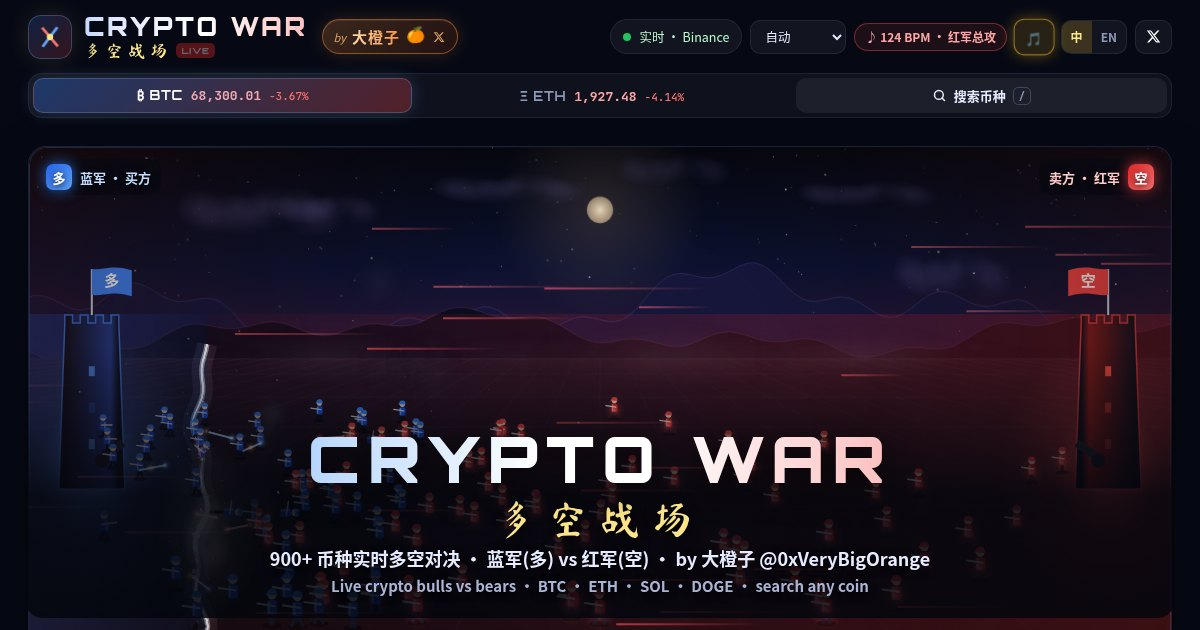
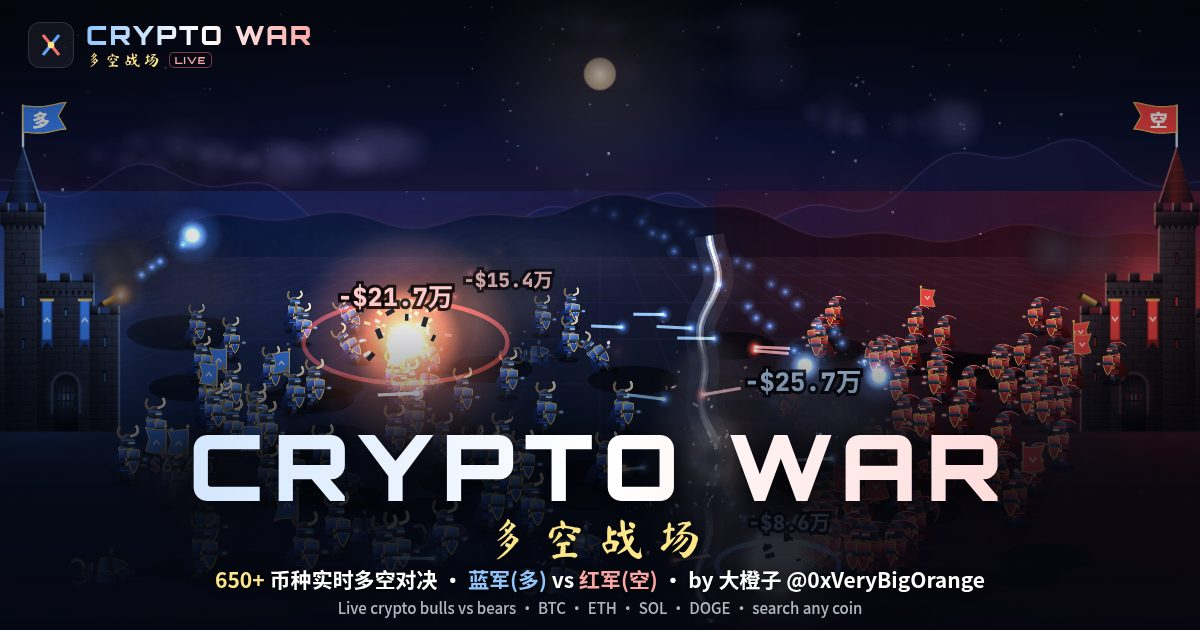
二轮体检：手机端弹幕开关让开红方军旗、横屏矮屏移到右上；窄屏图例不再溢出；平板竖屏城堡外塔不被切边；换币时城堡战损/烟雾/弹坑立即复位；切后台不积压成交（回来不会集中爆发炮弹和巨鲸警报）；尺寸变化合并到一帧重建、尺寸不变不重建、监听像素比变化；前线后撤时落在敌阵的士兵跑步撤回；币种栏改为按钮组（搜索按钮不再被当成标签页），搜索弹窗加 dialog/aria-expanded；分享预览图换成新美术并改为 650+ 币种

diff --git a/js/battle.js b/js/battle.js
@@ -1,6 +1,6 @@
 // 战场动画：Canvas 2D，蓝军（多）在左，红军（空）在右
-import { t as tr, fmtUsd } from './i18n.js?v=932ab4a1';
-import { makeUnitSprites, drawStandard, Fortress, UNIT } from './units.js?v=932ab4a1';
+import { t as tr, fmtUsd } from './i18n.js?v=328eaf15';
+import { makeUnitSprites, drawStandard, Fortress, UNIT } from './units.js?v=328eaf15';
 const TAU = Math.PI * 2;
 const rand = (a, b) => a + Math.random() * (b - a);
 const clamp = (v, a, b) => Math.max(a, Math.min(b, v));
@@ -77,26 +77,37 @@ export class Battle {
     };
     this.units = makeUnitSprites(COL);
     this.forts = { blue: new Fortress('blue', COL.blue), red: new Fortress('red', COL.red) };
-    this.resize = this.resize.bind(this);
-    window.addEventListener('resize', this.resize);
-    if (window.ResizeObserver) new ResizeObserver(this.resize).observe(canvas);
-    this.resize();
+    // 尺寸 / 像素比变化：合并到下一帧只重建一次（ResizeObserver 和 window resize 经常同时触发）
+    this._rzQ = 0; const rz = () => { if (!this._rzQ) this._rzQ = requestAnimationFrame(() => { this._rzQ = 0; this.resize(); }); };
+    window.addEventListener('resize', rz);
+    if (window.ResizeObserver) new ResizeObserver(rz).observe(canvas);
+    this._watchDpr = () => { // 窗口拖到另一块屏幕（像素比变了但不一定触发 resize）
+      if (typeof matchMedia !== 'function') return;
+      const mq = matchMedia(`(resolution: ${window.devicePixelRatio || 1}dppx)`);
+      const on = () => { mq.removeEventListener('change', on); rz(); this._watchDpr(); };
+      mq.addEventListener && mq.addEventListener('change', on);
+    };
+    this._watchDpr();
+    // 切到后台期间不积压成交：回来时不会一口气补放几百发炮弹 / 巨鲸警报
+    document.addEventListener('visibilitychange', () => { if (!document.hidden) { this.queue = []; this.pending = { blue: 0, red: 0 }; } });
+    this.resize(true);
     this._initWeather();
     for (let i = 0; i < 40; i++) this.embers.push(this._ember(true));
   }
 
   // ---------- 布局 ----------
-  resize() {
+  resize(force) {
     const r = this.cv.getBoundingClientRect();
     const dpr = Math.min(window.devicePixelRatio || 1, this.Q.dpr);
     if (!r.width || !r.height) return;
+    if (force !== true && r.width === this.W && r.height === this.H && dpr === this.dpr) return; // 尺寸没变不重建缓存
     this.W = r.width; this.H = r.height; this.dpr = dpr;
     this.cv.width = Math.round(r.width * dpr); this.cv.height = Math.round(r.height * dpr);
     const oT = this.laneTop, oB = this.laneBot, oW = this.W0;
     this.horizon = this.H * 0.4; this.laneTop = this.H * 0.52; this.laneBot = this.H * 0.93;
     if (oT != null && oB > oT) for (const s of this.soldiers) { s.y = this.laneTop + (s.y - oT) / (oB - oT) * (this.laneBot - this.laneTop); if (oW) s.x *= this.W / oW; }
     this.W0 = this.W;
-    this.baseL = Math.max(34, this.W * 0.055); this.baseR = this.W - this.baseL;
+    this.baseL = Math.max(34, this.W * 0.055, 50 * clamp(this.H / 500, 0.5, 1.15)); this.baseR = this.W - this.baseL; // 画布偏高（平板竖屏）时城堡外塔不被画布边缘切掉
     this.N = Math.round(clamp(this.W / 16, 22, 70));
     this.forts.blue.build(this.W, this.H, dpr, this.baseL, this.H * 0.66, this.baseL);
     this.forts.red.build(this.W, this.H, dpr, this.baseR, this.H * 0.66, this.W - this.baseR);
@@ -209,7 +220,10 @@ export class Battle {
   setThresholds(th) { Object.assign(this.th, th); }
   reset() {
     this.bullets = []; this.shells = []; this.parts = []; this.texts = []; this.queue = []; this.rings = [];
-    this.pending = { blue: 0, red: 0 }; this.front = this.frontTarget = 0.5; this.surge = null;
+    this.pending = { blue: 0, red: 0 }; this.front = this.frontTarget = 0.5; this.surge = null; this.surgeT = 0; this.lastSurge = null;
+    this.smoke = []; this.scorch = []; this.celebrateT = 0; this.shake = 0; this.flash = 0; this.intensity = 0;
+    // 换币后两边城堡立即恢复完好（不沿用上一个币的战损）
+    for (const f of Object.values(this.forts)) { f.dmg = 0; f.glow = 0.6; }
   }
   // 胜利烟花
   celebrate(side) {
@@ -230,6 +244,7 @@ export class Battle {
   setSurge(side) { this.surge = side; }
   /** side: 'buy'|'sell'; usd: 成交额 */
   fire(side, usd, qty) {
+    if (document.hidden) return; // 后台不播放（浏览器也会暂停动画），避免回到前台时集中爆发
     if (this.queue.length > 300) this.queue.shift();
     this.queue.push({ side: side === 'buy' ? 'blue' : 'red', usd, qty });
   }
@@ -438,7 +453,8 @@ export class Battle {
       const depth = surging ? s.d * 0.35 : s.d;
       let tx = fx - dir * (12 + depth * Math.abs(fx - base) * 0.82);
       if (surging) tx += dir * 10 * Math.sin(this.t * 3 + s.phase);
-      const dx = tx - s.x, sp = s.speed * (surging ? 2.2 : 1) * (Math.abs(dx) > 80 ? 1.6 : 1);
+      const behind = (s.x - fx) * dir > 8; // 前线快速后撤时，落在敌阵里的士兵跑步撤回，不在对方阵地里慢慢走
+      const dx = tx - s.x, sp = s.speed * (surging ? 2.2 : 1) * (behind ? 2.8 : Math.abs(dx) > 80 ? 1.6 : 1);
       s.moving = Math.abs(dx) > 3;
       s.x += clamp(dx, -sp * dt, sp * dt);
       s.phase += dt * (s.moving ? 11 : 2.5) * (surging ? 1.4 : 1);

diff --git a/index.html b/index.html
@@ -41,7 +41,7 @@
 <!-- 网页字体异步加载，不阻塞渲染；加载失败时使用系统字体 -->
 <link rel="stylesheet" href="https://fonts.googleapis.com/css2?family=Orbitron:wght@700;900&family=Ma+Shan+Zheng&family=JetBrains+Mono:wght@500;700;800&display=swap" media="print" id="gfonts" />
 <noscript><link rel="stylesheet" href="https://fonts.googleapis.com/css2?family=Orbitron:wght@700;900&family=Ma+Shan+Zheng&family=JetBrains+Mono:wght@500;700;800&display=swap" /></noscript>
-<link rel="stylesheet" href="style.css?v=932ab4a1" />
+<link rel="stylesheet" href="style.css?v=328eaf15" />
 </head>
 <body>
 <!-- 开场 -->
@@ -75,14 +75,14 @@
     </a>
   </div>
 
-  <nav class="coin-tabs" id="coinTabs" role="tablist">
-    <span class="tab-ind" id="tabInd"></span>
-    <button role="tab" data-coin="btc"><span class="ct-sym">₿ BTC</span><span class="ct-px" id="mini-btc">--</span><span class="ct-ch" id="minich-btc"></span></button>
-    <button role="tab" data-coin="eth"><span class="ct-sym">Ξ ETH</span><span class="ct-px" id="mini-eth">--</span><span class="ct-ch" id="minich-eth"></span></button>
-    <button role="tab" data-coin="cur" id="tab-cur" hidden><span class="ct-sym" id="cur-sym">--</span><span class="ct-px" id="mini-cur">--</span><span class="ct-ch" id="minich-cur"></span></button>
-    <button type="button" class="search-btn" id="searchBtn" data-i18n-title="searchKey" data-i18n-aria="search"><svg viewBox="0 0 24 24" aria-hidden="true"><circle cx="11" cy="11" r="7"/><path d="M20 20l-4-4"/></svg><span class="sb-txt" data-i18n="search">搜索币种</span><kbd>/</kbd></button>
+  <nav class="coin-tabs" id="coinTabs" aria-label="币种" data-i18n-aria="coinNav">
+    <span class="tab-ind" id="tabInd" aria-hidden="true"></span>
+    <button type="button" data-coin="btc" aria-pressed="false"><span class="ct-sym">₿ BTC</span><span class="ct-px" id="mini-btc">--</span><span class="ct-ch" id="minich-btc"></span></button>
+    <button type="button" data-coin="eth" aria-pressed="false"><span class="ct-sym">Ξ ETH</span><span class="ct-px" id="mini-eth">--</span><span class="ct-ch" id="minich-eth"></span></button>
+    <button type="button" data-coin="cur" id="tab-cur" aria-pressed="false" hidden><span class="ct-sym" id="cur-sym">--</span><span class="ct-px" id="mini-cur">--</span><span class="ct-ch" id="minich-cur"></span></button>
+    <button type="button" class="search-btn" id="searchBtn" aria-haspopup="dialog" aria-expanded="false" aria-controls="searchPop" data-i18n-title="searchKey" data-i18n-aria="search"><svg viewBox="0 0 24 24" aria-hidden="true"><circle cx="11" cy="11" r="7"/><path d="M20 20l-4-4"/></svg><span class="sb-txt" data-i18n="search">搜索币种</span><kbd>/</kbd></button>
   </nav>
-  <div class="search-pop" id="searchPop" hidden>
+  <div class="search-pop" id="searchPop" role="dialog" aria-label="搜索币种" data-i18n-aria="search" hidden>
     <div class="sp-head">
       <svg viewBox="0 0 24 24" aria-hidden="true"><circle cx="11" cy="11" r="7"/><path d="M20 20l-4-4"/></svg>
       <input id="searchIn" type="search" autocomplete="off" autocapitalize="characters" spellcheck="false" enterkeyhint="go" data-i18n-ph="searchPh" data-i18n-aria="search" role="combobox" aria-controls="searchList" aria-expanded="true" />
@@ -243,6 +243,6 @@
   </div>
   <p class="disclaimer" data-i18n="disclaimer">数据来自 Binance / OKX / Coinbase 公共行情（无需 API Key），仅供娱乐参考，不构成投资建议 · 蓝 = 多 / 买方，红 = 空 / 卖方</p>
 </footer>
-<script type="module" src="js/app.js?v=932ab4a1"></script>
+<script type="module" src="js/app.js?v=328eaf15"></script>
 </body>
 </html>

diff --git a/js/app.js b/js/app.js
@@ -1,9 +1,9 @@
-import { FeedManager, SOURCES, fetchMiniTickers, fetchBinance1s, fetchBinanceAggTrades, fetchOkxTrades, fetchCoinbaseTrades } from './feeds.js?v=932ab4a1';
-import { PRESET, universe, loadUniverse, loadTickers, fetchQuoteVolume, thresholdsFor, search as searchCoins, topByVolume, recents, pushRecent, favorites, toggleFav, primarySource } from './markets.js?v=932ab4a1';
-import { Battle } from './battle.js?v=932ab4a1';
-import { t as T, lang, setLang, onLang, applyI18n, fmtUsd, fmtShort, fmtNum, escH } from './i18n.js?v=932ab4a1';
-import { AudioController } from './music.js?v=932ab4a1';
-import { initChat } from './chat.js?v=932ab4a1';
+import { FeedManager, SOURCES, fetchMiniTickers, fetchBinance1s, fetchBinanceAggTrades, fetchOkxTrades, fetchCoinbaseTrades } from './feeds.js?v=328eaf15';
+import { PRESET, universe, loadUniverse, loadTickers, fetchQuoteVolume, thresholdsFor, search as searchCoins, topByVolume, recents, pushRecent, favorites, toggleFav, primarySource } from './markets.js?v=328eaf15';
+import { Battle } from './battle.js?v=328eaf15';
+import { t as T, lang, setLang, onLang, applyI18n, fmtUsd, fmtShort, fmtNum, escH } from './i18n.js?v=328eaf15';
+import { AudioController } from './music.js?v=328eaf15';
+import { initChat } from './chat.js?v=328eaf15';
 
 const $ = (id) => document.getElementById(id);
 const pad = (n) => String(n).padStart(2, '0');
@@ -333,7 +333,7 @@ async function setCoin(id, { push = true, first = false } = {}) {
   const key = tabKey(id);
   $('tab-cur').hidden = key !== 'cur';
   if (key === 'cur') { $('cur-sym').textContent = m.base; $('mini-cur').textContent = m.last ? fmtPx(m.last, CF.dp) : '--'; $('minich-cur').textContent = ''; }
-  tabs.forEach(b => { b.classList.toggle('on', b.dataset.coin === key); b.setAttribute('aria-selected', b.dataset.coin === key); });
+  tabs.forEach(b => { b.classList.toggle('on', b.dataset.coin === key); b.setAttribute('aria-pressed', b.dataset.coin === key); });
   for (const o of sel.options) o.disabled = o.value !== 'auto' && !m[o.value]; // 没上这个交易所的币禁用该数据源
   battle.setThresholds(CF.th);
   if (!first) { battle.reset(); showBanner(T('toCoin', escH(m.base)), 'gold', 1600, true); }
@@ -698,12 +698,12 @@ function setAct(i) {
   const el = sList.querySelector(`.sp-row[data-i="${sAct}"]`); if (el) el.scrollIntoView({ block: 'nearest' });
 }
 function openSearch(q = '') {
-  sPop.hidden = false; sIn.setAttribute('aria-expanded', 'true'); sIn.value = q; sAct = 0; renderSearch();
+  sPop.hidden = false; sIn.setAttribute('aria-expanded', 'true'); $('searchBtn').setAttribute('aria-expanded', 'true'); sIn.value = q; sAct = 0; renderSearch();
   setTimeout(() => sIn.focus(), 0);
   loadUniverse().then(renderSearch).catch(() => {});
   loadTickers().then(() => { if (!sPop.hidden) renderSearch(); }).catch(() => {}); // 60 秒内只拉一次
 }
-function closeSearch() { sPop.hidden = true; sIn.setAttribute('aria-expanded', 'false'); sIn.blur(); }
+function closeSearch() { sPop.hidden = true; sIn.setAttribute('aria-expanded', 'false'); $('searchBtn').setAttribute('aria-expanded', 'false'); sIn.blur(); }
 function pick(m) { if (!m) return; closeSearch(); setCoin(m.id); }
 $('searchBtn').onclick = (e) => { e.stopPropagation(); sPop.hidden ? openSearch() : closeSearch(); };
 $('searchClose').onclick = closeSearch;

diff --git a/js/i18n.js b/js/i18n.js
@@ -60,7 +60,7 @@ const D = {
     stTie: '⚖ 两军对峙', stBlue: '🔵 蓝军推进', stRed: '🔴 红军压制', stSurgeB: '🔥 蓝军总攻', stSurgeR: '🔥 红军总攻',
     basisTitle: '战力 = 价格涨跌 50%（10秒 + 1分钟）+ 吃单 30%（10秒 + 1分钟）+ ±0.5% 挂单 20%',
     basisWait: '战况依据：等待数据…', basis: '战况依据：', b10: '10秒', b60: '1分钟', bOnly: (n) => `(仅${n}秒)`, bLast: '最新', bTk: '吃单买:卖', bBk: '挂单买:卖',
-    hudL: '蓝军 · 买方', hudR: '卖方 · 红军',
+    coinNav: '币种', hudL: '蓝军 · 买方', hudR: '卖方 · 红军',
     legend: (a, b, c) => `小兵 = 成交 · 炮弹 ≥ $${a} · 重炮 ≥ $${b} · 🐋 空袭 ≥ $${c}`,
     taker: '吃单', takerSub: '主动成交 · 谁在冲锋', w10: '10 秒', w60: '1 分钟', w300: '5 分钟', delta: '5 分钟净主动买入',
     only: (n) => `仅${n}秒`, cover: (p) => `仅覆盖±${p}%`, buy: '买', sell: '卖', bid: '买盘', ask: '卖盘',
@@ -112,7 +112,7 @@ const D = {
     stTie: '⚖ Standoff', stBlue: '🔵 Blue advances', stRed: '🔴 Red presses', stSurgeB: '🔥 Blue charge', stSurgeR: '🔥 Red charge',
     basisTitle: 'Power = price change 50% (10s + 1m) + taker flow 30% (10s + 1m) + order book within ±0.5% 20%',
     basisWait: 'Why: waiting for data…', basis: 'Why: ', b10: '10s', b60: '1m', bOnly: (n) => `(only ${n}s)`, bLast: 'Last', bTk: 'Taker buy:sell', bBk: 'Book bid:ask',
-    hudL: 'Blue Army · Buyers', hudR: 'Sellers · Red Army',
+    coinNav: 'Coins', hudL: 'Blue Army · Buyers', hudR: 'Sellers · Red Army',
     legend: (a, b, c) => `Soldiers = trades · Shell ≥ $${a} · Heavy ≥ $${b} · 🐋 Air strike ≥ $${c}`,
     taker: 'Takers', takerSub: 'Market orders · who is charging', w10: '10s', w60: '1 min', w300: '5 min', delta: '5-min net taker buy',
     only: (n) => `only ${n}s`, cover: (p) => `covers only ±${p}%`, buy: 'Buy', sell: 'Sell', bid: 'Bids', ask: 'Asks',

diff --git a/style.css b/style.css
@@ -421,5 +421,9 @@ mark.sp-hl{background:none;color:#fde68a}
   .chat-form input{font-size:16px} /* iOS 不自动放大 */
   .cb{font-size:12.5px;padding:9px 4px}
   .chat-card h2 small{display:none}
-  .battle-card .dm-tog{bottom:auto;top:52px;right:8px;font-size:10.5px;padding:3px 7px}
+  .battle-card .dm-tog{bottom:auto;top:52px;right:46px;font-size:10.5px;padding:3px 7px} /* 让开红方城堡尖顶的军旗 */
 }
+
+/* 窄屏：图例最多两行、不超出画布；横屏矮屏：弹幕开关移到右上（右下被悬浮配乐按钮挡住），并让开红方军旗 */
+@media (max-width:640px){.legend{left:8px;right:8px;transform:none;margin:0 auto;width:max-content;max-width:calc(100% - 16px);box-sizing:border-box;white-space:normal;text-align:center;line-height:1.35}}
+@media (max-height:500px) and (orientation:landscape){.battle-card .dm-tog{bottom:auto;top:52px;right:52px;font-size:10.5px;padding:3px 7px}}

diff --git a/js/chat.js b/js/chat.js
@@ -1,6 +1,6 @@
 // 匿名喊单评论区 + 弹幕：Supabase REST（读/写）+ Realtime WebSocket（postgres_changes INSERT），不依赖 SDK
 // 只使用公开的 publishable key；表开启 RLS，匿名只能读和发，数据库端限流（同 IP 3 秒 1 条 / 每分钟 10 条）
-import { t as T, onLang, lang as _lang } from './i18n.js?v=932ab4a1';
+import { t as T, onLang, lang as _lang } from './i18n.js?v=328eaf15';
 
 const SB_URL = 'https://gtdvykkdvpzsnhlqlgun.supabase.co';
 const SB_KEY = 'sb_publishable_i5XDXdgwAMTA0PHFCWTeew_qDAv9-pU';

diff --git a/js/markets.js b/js/markets.js
@@ -1,4 +1,4 @@
-import { fetchJson, binFetch } from './net.js?v=932ab4a1';
+import { fetchJson, binFetch } from './net.js?v=328eaf15';
 // 币种宇宙：Binance（USDT 现货）为主，OKX（USDT 现货）、Coinbase（USD）补充；本地缓存 + 24h 行情排序
 const UKEY = 'cw_univ_v2', UTTL = 12 * 3600e3;
 const BIN_REST = ['https://api.binance.com', 'https://data-api.binance.vision'];

diff --git a/js/feeds.js b/js/feeds.js
@@ -1,6 +1,6 @@
 // 行情数据层：Binance / OKX / Coinbase 公共 WebSocket（无需 API Key），自动故障切换
 // 输出统一事件：trade / ticker / book / status
-import { fetchJson, binFetch, binCanSpend, binBlockedFor } from './net.js?v=932ab4a1';
+import { fetchJson, binFetch, binCanSpend, binBlockedFor } from './net.js?v=328eaf15';
 
 
 export const SOURCES = {
